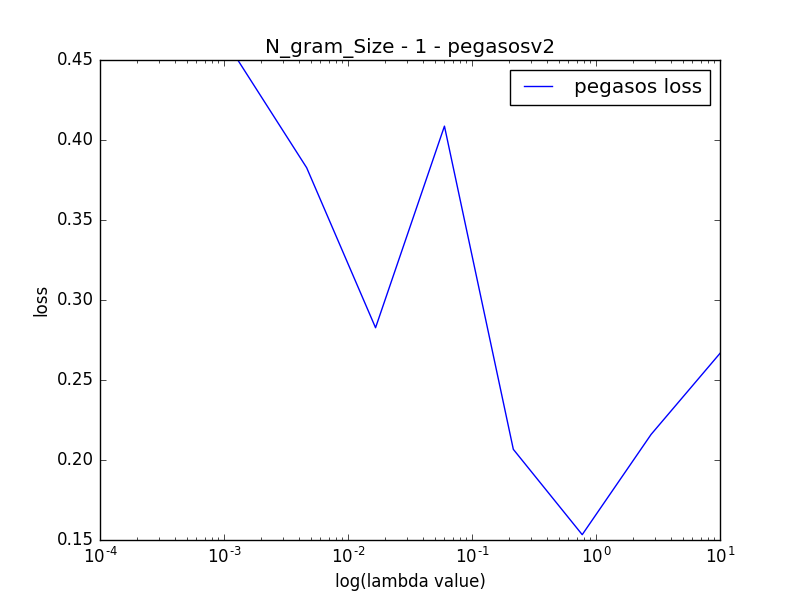
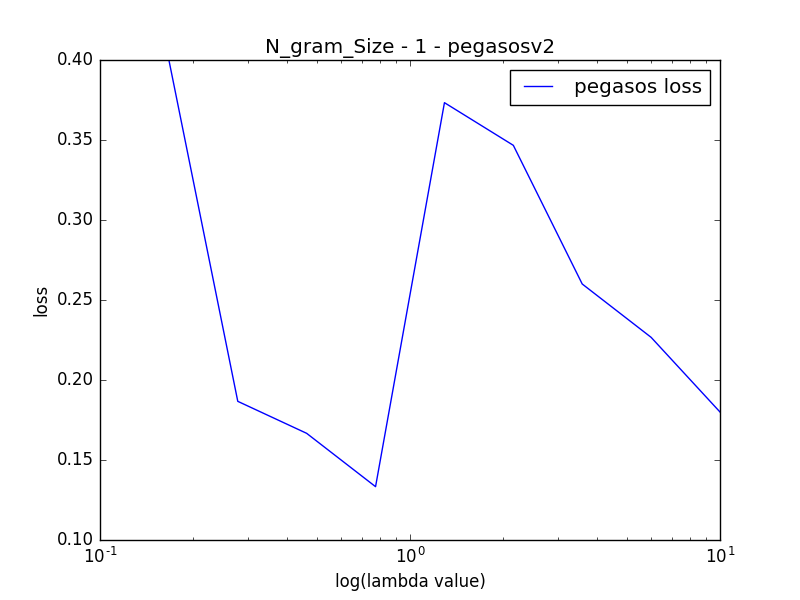
Almost finished.

diff --git a/main.py b/main.py
@@ -3,16 +3,17 @@ import numpy as np
 import collections
 from pegasos import *
 from load import *
+from util import *
 import matplotlib.pyplot as plt
 
 def lambdaListBuider(num_lambdas):
-    lambda_reg_list = np.logspace(-4, 1, num_lambdas)
-    return np.array(lambda_reg_list)
+    if num_lambdas == 1:
+        return np.array([0.1])
+    else:
+        lambda_reg_list = np.logspace(-1, 1, num_lambdas)
+        return np.array(lambda_reg_list)
 
-def compareprinter(weightsdictionary):
-    for key in sorted(weightsdictionary)[:5]:
-        print key, weightsdictionary[key]
-
+# Question 6.6
 def testLambdaValues(X_train, y_train, lambda_reg_list, num_epochs, algo):
     print '\n################', algo, '################\n'
     classificationScore_list, w_list = [], []
@@ -25,9 +26,10 @@ def testLambdaValues(X_train, y_train, lambda_reg_list, num_epochs, algo):
         w_list.append(w)
         classificationScore_list.append(signumfunction(w, X_train, y_train))
     endTime = timeit.default_timer()
-    print "Run Time of Pegasos", endTime - startTime
+    print "Run Time of "+algo, endTime - startTime
     return classificationScore_list, w_list
 
+# Question 6.6
 def plotlambdascores(sigmun_score, lambda_reg_list, plottype):
     plt.plot(lambda_reg_list, sigmun_score, label="pegasos loss")
     plt.legend()
@@ -38,12 +40,7 @@ def plotlambdascores(sigmun_score, lambda_reg_list, plottype):
     plt.savefig(plottype)
     plt.close()
 
-def calcError(w_list, X, y):
-    score_list = []
-    for i in w_list:
-        score_list.append(signumfunction(i, X, y))
-    return score_list
-
+# Question 6.6
 def getbestLambda_Thetas(loss_hist_list, lambda_reg_list, theta_list):
     min_Loss = min(loss_hist_list)
     i = loss_hist_list.index(min_Loss)
@@ -51,39 +48,95 @@ def getbestLambda_Thetas(loss_hist_list, lambda_reg_list, theta_list):
     bestThetas = theta_list[i]
     return bestLambda, bestThetas, min_Loss
 
+# Questin 6.5
+def calcError(w_list, X, y):
+    score_list = []
+    for i in w_list:
+        score_list.append(signumfunction(i, X, y))
+    return score_list
+
+# Questin 6.5 - continued
+def signumfunction(w, X, y):
+    count = 0
+    for i in range(len(X)):
+        if y[i]*dotProduct(w, X[i])<0:
+            count += 1
+    return count/(1. * len(X))
+
+# Question 7.1
 def classificationAnalysis(X, y, w):
     incorrectlyclassified = []
     for i in range(len(y)):
+        # determine if the test instance was correctly or incorrectly classified
         if y[i]*dotProduct(w, X[i])<0:
             incorrectlyclassified.append(X[i])
+    # take the dot product of the first two incorrectly classified test values to understand which weight values are driving the classification
     return mdDotProduct(incorrectlyclassified[0], w), mdDotProduct(incorrectlyclassified[1], w)
 
+# Question 7.1
 def mdDotProduct(d1,d2):
     if len(d1) < len(d2):
         return mdDotProduct(d2,d1)
     return list((f,v,d1.get(f,0), abs(d1.get(f,0)*v)) for f,v in d2.items())
 
-def runner(gram_size, num_lambdas, num_epochs):
-    X_train, y_train, X_test, y_test = countTrainAndTest(gram_size)
+# Question 6.4
+def compareprinter(weightsdictionary):
+    for key in sorted(weightsdictionary)[:5]:
+        print key, weightsdictionary[key]
+
+def runner(X_train, y_train, X_test, y_test, gram_size, num_lambdas, num_epochs, algo):
     lambda_reg_list = lambdaListBuider(num_lambdas)
-    # train_scores, w_list = testLambdaValues(X_train, y_train, lambda_reg_list, num_epochs, 'pegasos')
-    train_scoresv2, wv2_list = testLambdaValues(X_train, y_train, lambda_reg_list, num_epochs, 'pegasosv2')
-    # score_list, misclas_indicies_list = calcError(w_list, X_train, y_train)
-    scorev2_list = calcError(wv2_list, X_train, y_train)
-    # get the best lambda score
-    bestLambda, bestwv2, min_Loss = getbestLambda_Thetas(scorev2_list, lambda_reg_list, wv2_list)
-    # plotlambdascores(score_list, lambda_reg_list, 'pegasos')
-    plotlambdascores(scorev2_list, lambda_reg_list, 'N_gram_Size - '+str(gram_size)+' - pegasosv2')
-    # classificationAnalysis(w_list, misclas_indicies_list)
-    misclassifiedList, misclassifiedList2 = classificationAnalysis(X_test, y_test, bestwv2)
+
+    # takes the data, algo type, and the parameters of the algo
+    train_scores, w_list = testLambdaValues(X_train, y_train, lambda_reg_list, num_epochs, algo)
+
+    # Questin 6.5 - calculate the percent erro when predicting y using sign((w.T)x)
+    score_list = calcError(w_list, X_train, y_train)
+    for i in range(len(score_list)):
+        print "Lambda Value - ", lambda_reg_list[i], " the percent error was", score_list[i]
+
+    # Question 6.6 - searching for the best Lambda regularization value
+    bestLambda, bestw, min_Loss = getbestLambda_Thetas(score_list, lambda_reg_list, w_list)
+
+    # plot the scores of the decision fucntion against the corresponding lamdba values
+    plotlambdascores(score_list, lambda_reg_list, 'N_gram_Size - '+str(gram_size)+' - '+algo)
+
+    # Questin 7.1
+    misclassifiedList, misclassifiedList2 = classificationAnalysis(X_test, y_test, bestw)
     sorted_list = sorted(misclassifiedList2, key=lambda x: x[3], reverse=True)
     sorted_list2 = sorted(misclassifiedList, key=lambda x: x[3], reverse=True)
     print "\n ####### misclassified #1\n", sorted_list[:10]
     print "\n ####### misclassified #2\n", sorted_list2[:10]
 
+    # Question 6.4
+    return w_list
+
+# Question 6.4
+def comparePegasosVersions(gram_size):
+    # get the data to be used for the comparison
+    X_train, y_train, X_test, y_test = countTrainAndTest(gram_size)
+
+    # execute the two versions of the Pegasos Algorithm
+    w = runner(X_train, y_train, X_test, y_test, gram_size, 1, 2, 'pegasos')
+    wv2 = runner(X_train, y_train, X_test, y_test, gram_size, 1, 2, 'pegasosv2')
+
+    print "\n ####### Top 5 Pegasos keys and weight values #1\n"
+    compareprinter(w[0])
+    print "\n ####### Top 5 Pegasosv2 keys and weight values #1\n"
+    compareprinter(wv2[0])
+
+# Question 8.1
+def compareUniGramAndBiGram(gram_size, num_lambdas, num_epochs, algo):
+    X_train, y_train, X_test, y_test = countTrainAndTest(gram_size)
+    runner(X_train, y_train, X_test, y_test, gram_size, num_lambdas, num_epochs, algo)
+
 def main():
-    runner(1, 10, 2)
-    runner(2, 10, 2)
+    # Question 6.4
+    # comparePegasosVersions(1)
+
+    # Question 8.1
+    compareUniGramAndBiGram(1, 10, 2, 'pegasosv2')
+    # compareUniGramAndBiGram(2, 10, 2, 'pegasosv2')
 
 if __name__ == "__main__":
     main()

diff --git a/load.py b/load.py
@@ -22,9 +22,7 @@ def folder_list(path,label,n):
         if n > 1:
             r = n_gramBuilder(r, n)
         r.append(label)
-        # r_ngram.append(label)
         review.append(r)
-        # r_ngram_list.append()
     return review
 
 def read_data(file):
@@ -41,6 +39,7 @@ def read_data(file):
     words = filter(None, words)
     return words
 
+# This is used for question
 def n_gramBuilder(r, n):
     return zip(*[r[i:] for i in range(n)])
 
@@ -56,12 +55,8 @@ def shuffle_data(n):
     neg_review = folder_list(neg_path,-1,n)
 
     review = pos_review + neg_review
-    # review_n_gram = pos_review_n_gram + neg_review_n_gram
     random.shuffle(review)
-    # random.shuffle(review_n_gram)
-    # n_gram_train = review_n_gram[:1500]
-    # n_gram_test = review_n_gram[1500:]
-    train = review[:1500]
+    train = review[:150]
     test = review[1500:]
     return train, test
 
@@ -72,12 +67,14 @@ Save your shuffled result by pickle.
 *Check it out. https://wiki.python.org/moin/UsingPickle
 '''
 
+# Question 4.1
 def countTrainAndTest(n):
     train, test = shuffle_data(n)
     X_train, y_train = counter(train)
     X_test, y_test = counter(test)
     return X_train, y_train, X_test, y_test
 
+# Question 5.1
 def counter(data):
     y = []
     X = []

diff --git a/pegasos.py b/pegasos.py
@@ -3,13 +3,12 @@ import collections
 from util import *
 import timeit
 
+# Question 6.2
 def pegasos(X_train, y_train, lambda_reg, max_epochs):
     t = 2
     w = dict()
     epoch = 0
     while epoch < max_epochs:
-        # print "###############epoch # ", epoch
-        # print "###############lambda_reg", lambda_reg
         epoch += 1
         for i in range(len(X_train)):
             t += 1
@@ -26,14 +25,13 @@ def pegasos(X_train, y_train, lambda_reg, max_epochs):
                 increment(w,-stepSize*lambda_reg,w)
     return w
 
+# Question 6.3
 def pegasosv2(X_train, y_train, lambda_reg, max_epochs):
     t = 2
     w = dict()
     s = 1
     epoch = 0
     while epoch < max_epochs:
-        # print "###############epoch # ", epoch
-        # print "###############lambda_reg", lambda_reg
         epoch += 1
         for i in range(len(X_train)):
             t += 1
@@ -43,10 +41,3 @@ def pegasosv2(X_train, y_train, lambda_reg, max_epochs):
                 increment(w,(stepSize*y_train[i])/s,X_train[i])
     increment(w,(s-1),w)
     return w
-
-def signumfunction(w, X, y):
-    count = 0
-    for i in range(len(X)):
-        if y[i]*dotProduct(w, X[i])<0:
-            count += 1
-    return count/(1. * len(X))
